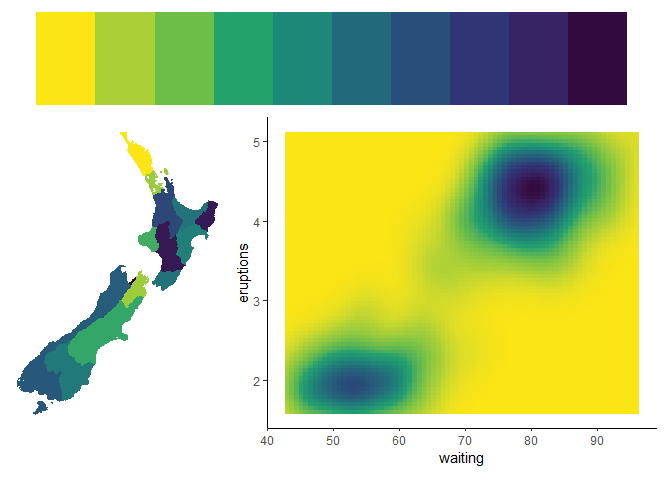
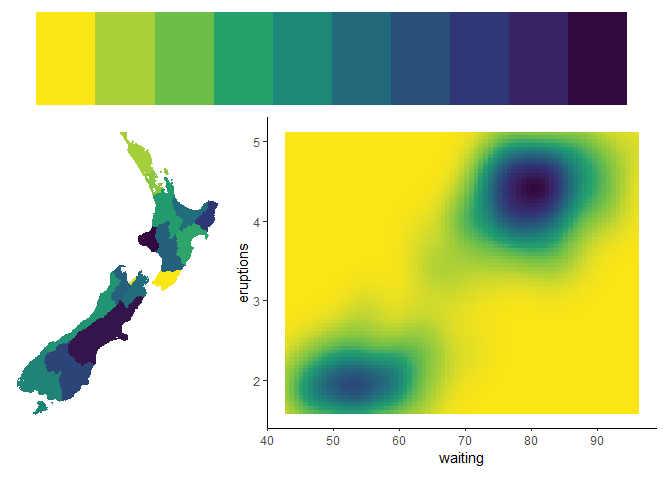
fix URLs

Changed region(s): [[0.0, 0.2812, 0.3438, 0.875]]

diff --git a/README.md b/README.md
@@ -61,9 +61,11 @@ print_pal(caw_col)
 ![](man/figures/README-unnamed-chunk-4-1.png)<!-- -->
 
 Below area few examples of plots made using base `R` and
-[`ggplot2`](https://ggplot2.tidyverse.org/). We use the `gapminder`
-package to get some toy data and `rnatrualearch` to get a map of New
-Zealand.
+[`ggplot2`](https://ggplot2.tidyverse.org/). We use the
+[`gapminder`](https://github.com/jennybc/gapminder) package to get some
+toy data and
+[`rnaturalearth`](https://github.com/ropensci/rnaturalearth) to get a
+map of New Zealand.
 
 ``` r
 library(gapminder)
@@ -93,16 +95,16 @@ ggplot(faithfuld) +
 
 ``` r
 # download a map of NZ
-nz_map <- ne_states(country = "new zealand", returnclass = "sf")
+nz_map <- rnaturalearth::ne_states(country = "new zealand", returnclass = "sf")
 
 # remove outlying islands
-nz_map <- nz_map %>%
+nz_map <- nz_map |>
   dplyr::filter(region %in% c("South Island", "North Island"))
 
 # add a random variable for each region
 nz_map <- nz_map %>%
-  select(name) %>%
-  mutate(count = runif(n(), 0, 100))
+  dplyr::select(name) |>
+  dplyr::mutate(count = runif(dplyr::n(), 0, 100))
 
 # plot - use scale_fill_gradientn() and scale_colour_gradientn() to colour the
 # regions by the random variable we just created
